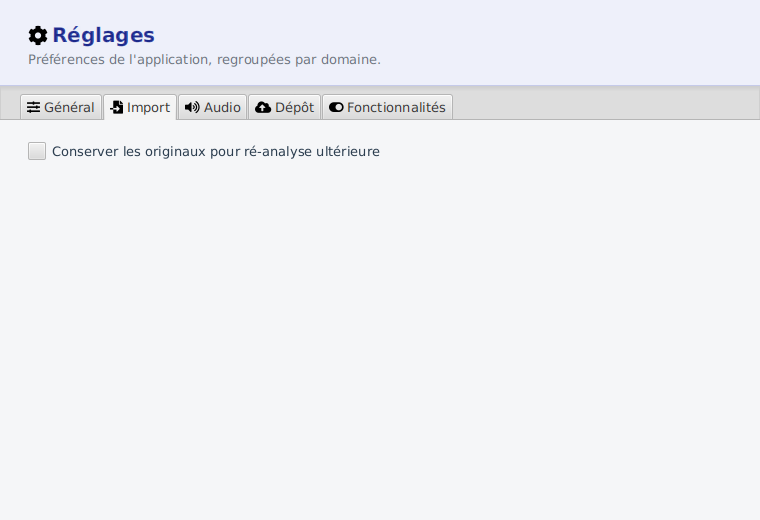
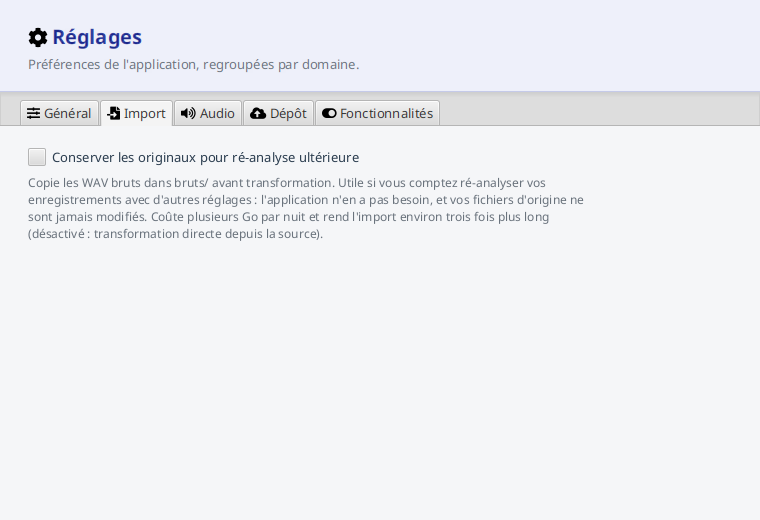
feat(reglages) : l'aide d'un réglage se lit, elle ne se survole plus
L'aide n'était rendue qu'en infobulle. Le libellé s'affichait, la conséquence
non. Or plusieurs réglages portent dans leur aide un arbitrage que l'utilisateur
doit connaître AVANT de choisir : la forme du dépôt décide si l'audio reste
téléchargeable et si la participation pourra être relancée (ADR 0034), la
conservation des originaux coûte plusieurs Go par nuit et triple l'import
(ADR 0036).

Les deux ADR soutenaient que le réglage « énonce ce qu'il engage ». À l'écran, ce
n'était vrai qu'à moitié : un texte qu'il faut survoler pour lire n'est pas lu.
C'est un geste qu'on ne fait pas si on ignore qu'il y a quelque chose à lire, et
qui n'existe pas au tactile.

Trois questions étaient ouvertes dans l'issue, tranchées ainsi :

L'aide est visible POUR TOUS les réglages, pas seulement ceux qu'on juge
importants : cette sélection demanderait d'arbitrer réglage par réglage et
dériverait. Une aide qui ne mérite pas d'être montrée ne mérite pas d'être
écrite.

L'infobulle disparaît. Deux canaux pour le même texte n'en valent pas un, et
c'est le genre de doublon que ce dépôt paie ailleurs.

Le défilement était déjà là : chaque onglet est monté dans un ScrollPane. La
question ne se posait pas, le code y avait répondu avant.

Chaque réglage est désormais enveloppé dans sa ligne, y compris les cases à
cocher qui portaient leur libellé seules. Deux tests atteignaient le contrôle par
sa position dans le formulaire ; ils le cherchent maintenant par son type, ce qui
[…]

Changed region(s): [[0.0, 0.0308, 1.0, 0.2462], [0.0303, 0.2769, 0.7868, 0.4615]]

diff --git a/src/main/java/fr/univ_amu/iut/commun/view/reglages.css b/src/main/java/fr/univ_amu/iut/commun/view/reglages.css
@@ -59,9 +59,19 @@
     -fx-max-width: 620;
 }
 
-/* Une ligne = libellé au-dessus de son contrôle (les cases portent déjà leur libellé). */
+/* Une ligne = libellé au-dessus de son contrôle (les cases portent déjà leur libellé), puis l'aide
+   en dessous. Le libellé dit CE QUE fait le réglage, l'aide dit CE QU'IL ENGAGE (#2085). */
 .reglage-ligne {
     -fx-spacing: 6;
+}
+
+/* L'aide, sous son contrôle : discrète mais LUE. Elle était en infobulle, donc jamais lue - or
+   plusieurs réglages y portent un arbitrage (l'audio récupérable ou non, plusieurs Go par nuit).
+   Même registre que `.section-sous` du socle, dont c'est le pendant dans les Réglages. */
+.reglage-aide {
+    -fx-font-size: 12px;
+    -fx-text-fill: -couleur-texte-discret;
+    -fx-padding: 2 0 0 0;
 }
 
 .reglage-libelle {

diff --git a/src/main/java/fr/univ_amu/iut/commun/view/ControleursReglages.java b/src/main/java/fr/univ_amu/iut/commun/view/ControleursReglages.java
@@ -13,7 +13,6 @@ import javafx.scene.control.Label;
 import javafx.scene.control.Spinner;
 import javafx.scene.control.SpinnerValueFactory;
 import javafx.scene.control.TextField;
-import javafx.scene.control.Tooltip;
 import javafx.scene.layout.Region;
 import javafx.scene.layout.VBox;
 import javafx.util.StringConverter;
@@ -44,20 +43,48 @@ final class ControleursReglages {
     }
 
     /// Une ligne de réglage : la case à cocher porte déjà son libellé ; les autres contrôles sont
-    /// précédés d'un libellé sur une ligne dédiée.
+    /// précédés d'un libellé sur une ligne dédiée. **L'aide suit le contrôle, visible** (#2085).
+    ///
+    /// Elle n'était rendue qu'en infobulle : le libellé s'affichait, la conséquence non. Or plusieurs
+    /// réglages portent dans leur aide un **arbitrage** que l'utilisateur doit connaître avant de
+    /// choisir — la forme du dépôt décide si l'audio reste récupérable côté serveur
+    /// ([ADR 0034](../../../../../../dev-docs/decisions/0034-la-forme-du-depot-se-choisit.md)), la
+    /// conservation des originaux coûte plusieurs Go par nuit
+    /// ([ADR 0036](../../../../../../dev-docs/decisions/0036-la-copie-des-bruts-est-une-option.md)).
+    /// Un texte qu'il faut survoler pour lire n'est pas lu : c'est un geste qu'on ne fait pas si on
+    /// ignore qu'il y a quelque chose à lire, et qui n'existe pas au tactile.
+    ///
+    /// **Visible pour tous les réglages, pas seulement ceux qu'on juge importants** : cette sélection
+    /// demanderait d'arbitrer réglage par réglage et dériverait. Une aide qui ne mérite pas d'être
+    /// montrée ne mérite pas d'être écrite.
     private static Node ligne(DescripteurReglage descripteur, ReglagesReactifs reactifs) {
         Control controle = controle(descripteur, reactifs);
-        if (descripteur instanceof DescripteurReglage.Booleen) {
-            return controle;
-        }
-        Label libelle = new Label(descripteur.libelle());
-        libelle.getStyleClass().add("reglage-libelle");
-        VBox ligne = new VBox(libelle, controle);
+        VBox ligne = new VBox();
         ligne.getStyleClass().add("reglage-ligne");
+        if (!(descripteur instanceof DescripteurReglage.Booleen)) {
+            Label libelle = new Label(descripteur.libelle());
+            libelle.getStyleClass().add("reglage-libelle");
+            ligne.getChildren().add(libelle);
+        }
+        ligne.getChildren().add(controle);
+        aide(descripteur).ifPresent(ligne.getChildren()::add);
         return ligne;
     }
 
-    /// Contrôle câblé (bidirectionnel) au réglage décrit, avec tooltip d'aide si fournie.
+    /// L'aide d'un réglage, rendue sous son contrôle. Vide quand le réglage n'en déclare pas.
+    private static Optional<Node> aide(DescripteurReglage descripteur) {
+        if (descripteur.aide().isBlank()) {
+            return Optional.empty();
+        }
+        Label aide = new Label(descripteur.aide());
+        aide.setWrapText(true);
+        aide.getStyleClass().add("reglage-aide");
+        return Optional.of(aide);
+    }
+
+    /// Contrôle câblé (bidirectionnel) au réglage décrit. L'aide n'est plus une infobulle : elle est
+    /// rendue sous le contrôle par [#ligne] (#2085), et deux canaux pour le même texte n'en valent
+    /// pas un.
     static Control controle(DescripteurReglage descripteur, ReglagesReactifs reactifs) {
         Control controle =
                 switch (descripteur) {
@@ -75,9 +102,6 @@ final class ControleursReglages {
                     case DescripteurReglage.Entier entier -> spinner(entier, reactifs);
                     case DescripteurReglage.Enumeration enumeration -> liste(enumeration, reactifs);
                 };
-        if (!descripteur.aide().isBlank()) {
-            controle.setTooltip(new Tooltip(descripteur.aide()));
-        }
         controle.getStyleClass().add("reglage-controle");
         return controle;
     }

diff --git a/src/test/java/fr/univ_amu/iut/commun/view/ControleursReglagesTest.java b/src/test/java/fr/univ_amu/iut/commun/view/ControleursReglagesTest.java
@@ -57,19 +57,47 @@ class ControleursReglagesTest {
         CheckBox coche = (CheckBox) controle;
         assertThat(coche.getText()).isEqualTo("Conserver les originaux");
         assertThat(coche.isSelected()).isFalse();
-        assertThat(coche.getTooltip()).isNotNull();
+        assertThat(coche.getTooltip())
+                .as("l'aide n'est plus une infobulle : elle est rendue sous le contrôle (#2085)")
+                .isNull();
 
         coche.setSelected(true);
         assertThat(reglages.lireBooleen("t.bool", false)).isTrue();
     }
 
     @Test
-    @DisplayName("sans aide, la case n'a pas de tooltip")
-    void sans_aide_pas_de_tooltip() {
-        Control controle = ControleursReglages.controle(
-                new DescripteurReglage.Booleen("t.bool2", "Sans aide", "", false), reactifs);
+    @DisplayName("#2085 : l'aide est rendue VISIBLE sous le contrôle, plus en infobulle")
+    void l_aide_est_visible_sous_le_controle() {
+        // Un texte qu'il faut survoler pour lire n'est pas lu : c'est un geste qu'on ne fait pas si on
+        // ignore qu'il y a quelque chose à lire, et qui n'existe pas au tactile. Or plusieurs réglages
+        // portent dans leur aide un arbitrage (ADR 0034, ADR 0036) que l'utilisateur doit connaître
+        // AVANT de choisir.
+        OngletReglages onglet =
+                onglet(List.of(new DescripteurReglage.Booleen("a.bool", "Case", "Ce que ça engage.", false)));
 
-        assertThat(((CheckBox) controle).getTooltip()).isNull();
+        VBox ligne = (VBox) ControleursReglages.formulaire(onglet, reactifs)
+                .getChildrenUnmodifiable()
+                .get(0);
+
+        assertThat(ligne.getChildren()).as("la case, puis son aide").hasSize(2);
+        Label aide = (Label) ligne.getChildren().get(1);
+        assertThat(aide.getText()).isEqualTo("Ce que ça engage.");
+        assertThat(aide.isWrapText())
+                .as("une aide se lit en entier, elle ne s'élide pas")
+                .isTrue();
+        assertThat(aide.getStyleClass()).contains("reglage-aide");
+    }
+
+    @Test
+    @DisplayName("#2085 : sans aide déclarée, aucune ligne vide n'est ajoutée")
+    void sans_aide_aucun_libelle_vide() {
+        OngletReglages onglet = onglet(List.of(new DescripteurReglage.Booleen("t.bool2", "Sans aide", "", false)));
+
+        VBox ligne = (VBox) ControleursReglages.formulaire(onglet, reactifs)
+                .getChildrenUnmodifiable()
+                .get(0);
+
+        assertThat(ligne.getChildren()).hasSize(1);
     }
 
     @Test
@@ -127,7 +155,10 @@ class ControleursReglagesTest {
         Region formulaire = ControleursReglages.formulaire(onglet, reactifs);
 
         assertThat(((VBox) formulaire).getChildren()).hasSize(2);
-        assertThat(((VBox) formulaire).getChildren().get(0)).isInstanceOf(CheckBox.class);
+        // Chaque réglage est désormais enveloppé dans sa ligne, y compris la case : c'est elle qui porte
+        // l'aide sous le contrôle (#2085).
+        VBox premiere = (VBox) ((VBox) formulaire).getChildren().get(0);
+        assertThat(premiere.getChildren()).singleElement().isInstanceOf(CheckBox.class);
     }
 
     @Test

diff --git a/src/main/java/fr/univ_amu/iut/commun/outils/CaptureEcranReglages.java b/src/main/java/fr/univ_amu/iut/commun/outils/CaptureEcranReglages.java
@@ -56,6 +56,14 @@ public final class CaptureEcranReglages {
         System.exit(0);
     }
 
+    /// Rend un onglet nommé dans son propre PNG.
+    private static void rendreOnglet(Injector injecteur, String titre, Path fichier) throws IOException {
+        Parent ecran = chargerFxml(injecteur, ECRAN);
+        Scene scene = new Scene(ecran, 760, 520);
+        selectionnerOnglet(ecran, titre);
+        ApercuFx.enregistrerPng(scene, fichier);
+    }
+
     /// Sélectionne l'onglet portant ce titre, pour qu'un aperçu montre autre chose que le premier.
     private static void selectionnerOnglet(Parent ecran, String titre) {
         TabPane onglets = (TabPane) ecran.lookup("#onglets");
@@ -83,10 +91,10 @@ public final class CaptureEcranReglages {
         // onglets n'étaient donc **documentés nulle part** (#2061). On rend aussi l'onglet « Import »,
         // dont l'option de conservation des originaux porte une conséquence que l'utilisateur doit
         // pouvoir lire avant de l'activer.
-        Parent ecranImport = chargerFxml(injecteur, ECRAN);
-        Scene sceneImport = new Scene(ecranImport, 760, 520);
-        selectionnerOnglet(ecranImport, "Import");
-        ApercuFx.enregistrerPng(sceneImport, sortie.resolve("apercu-reglages-import.png"));
+        // Les onglets qui portent une aide : c'est elle qui dit ce que le réglage engage (#2085), et un
+        // aperçu qui ne montre que le premier onglet ne la documente nulle part.
+        rendreOnglet(injecteur, "Import", sortie.resolve("apercu-reglages-import.png"));
+        rendreOnglet(injecteur, "Dépôt", sortie.resolve("apercu-reglages-depot.png"));
 
         System.out.println("Apercu des reglages ecrit dans " + sortie.toAbsolutePath());
     }

diff --git a/src/test/java/fr/univ_amu/iut/commun/view/SynchronisationReglagesTest.java b/src/test/java/fr/univ_amu/iut/commun/view/SynchronisationReglagesTest.java
@@ -13,7 +13,6 @@ import fr.univ_amu.iut.commun.viewmodel.ReglagesReactifs;
 import java.nio.file.Path;
 import javafx.scene.control.CheckBox;
 import javafx.scene.control.CheckMenuItem;
-import javafx.scene.layout.VBox;
 import org.junit.jupiter.api.BeforeEach;
 import org.junit.jupiter.api.DisplayName;
 import org.junit.jupiter.api.Test;
@@ -51,9 +50,10 @@ class SynchronisationReglagesTest {
         item.selectedProperty().bindBidirectional(reactifs.proprieteBooleen(PreferenceSourceEspece.CLE, false));
 
         // Case de l'onglet « Général » : bâtie comme par l'écran Réglages (même réactif, même clé).
-        CheckBox caseOnglet = (CheckBox) ((VBox) ControleursReglages.formulaire(new OngletReglagesGeneral(), reactifs))
-                .getChildren()
-                .get(0);
+        // Recherche par TYPE plutôt que par position : depuis #2085 chaque réglage est enveloppé dans sa
+        // ligne (contrôle + aide visible), et un test qui compte les enfants casse au prochain habillage.
+        CheckBox caseOnglet = (CheckBox) ControleursReglages.formulaire(new OngletReglagesGeneral(), reactifs)
+                .lookup(".check-box");
 
         assertThat(item.isSelected()).isFalse();
         assertThat(caseOnglet.isSelected()).isFalse();

diff --git a/src/test/java/fr/univ_amu/iut/commun/view/OngletReglagesFonctionnalitesRenduTest.java b/src/test/java/fr/univ_amu/iut/commun/view/OngletReglagesFonctionnalitesRenduTest.java
@@ -50,7 +50,8 @@ class OngletReglagesFonctionnalitesRenduTest {
         VBox formulaire = (VBox) ControleursReglages.formulaire(onglet, reactifs);
 
         // 1re ligne : la case de la feature (cochée = active par défaut).
-        CheckBox caseFeature = (CheckBox) formulaire.getChildren().get(0);
+        // Par type, pas par position : chaque réglage est enveloppé dans sa ligne depuis #2085.
+        CheckBox caseFeature = (CheckBox) formulaire.lookup(".check-box");
         assertThat(caseFeature.getText()).isEqualTo("Import depuis Vigie-Chiro");
         assertThat(caseFeature.isSelected()).isTrue();
 

diff --git a/docs/ecrans/reglages.md b/docs/ecrans/reglages.md
@@ -5,9 +5,14 @@ accessible à tout moment depuis le menu **☰** (en haut à droite) → **Régl
 
 ![L'écran Réglages : un onglet par domaine (Général, Import, Fonctionnalités).](../assets/captures/apercu-reglages.png)
 
-L'onglet **Import** porte l'option de conservation des originaux, décochée par défaut :
+Sous chaque réglage, une ligne dit **ce qu'il engage** — pas seulement ce qu'il fait. L'onglet
+**Import** porte l'option de conservation des originaux, décochée par défaut :
 
 ![L'onglet Import des Réglages : « Conserver les originaux pour ré-analyse ultérieure », décoché.](../assets/captures/apercu-reglages-import.png)
+
+L'onglet **Dépôt** porte le choix qui décide si vos sons restent téléchargeables depuis Vigie-Chiro :
+
+![L'onglet Dépôt des Réglages : « Forme du dépôt », avec la conséquence de chaque mode sur l'audio conservé en ligne.](../assets/captures/apercu-reglages-depot.png)
 
 Chaque **onglet** correspond à un domaine de l'application ; il se remplit tout seul des réglages que
 ce domaine propose. Aujourd'hui :